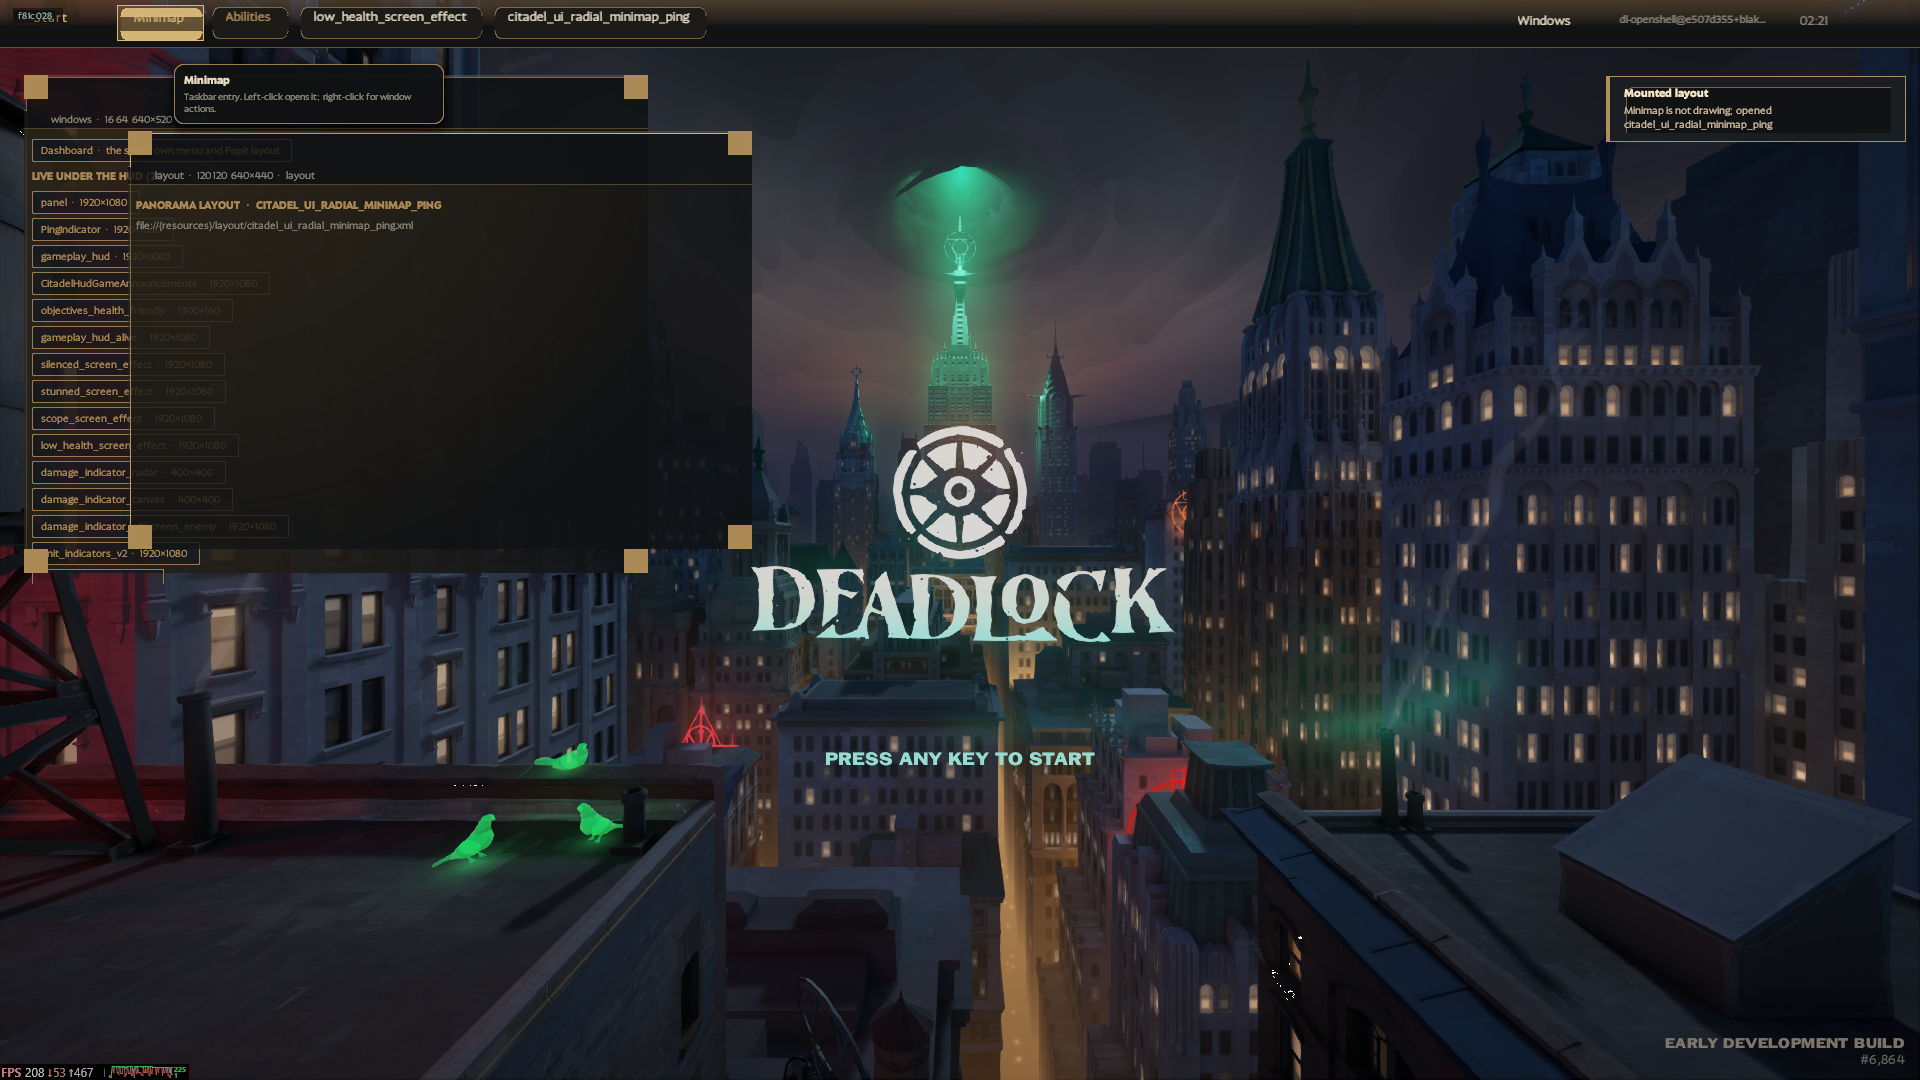
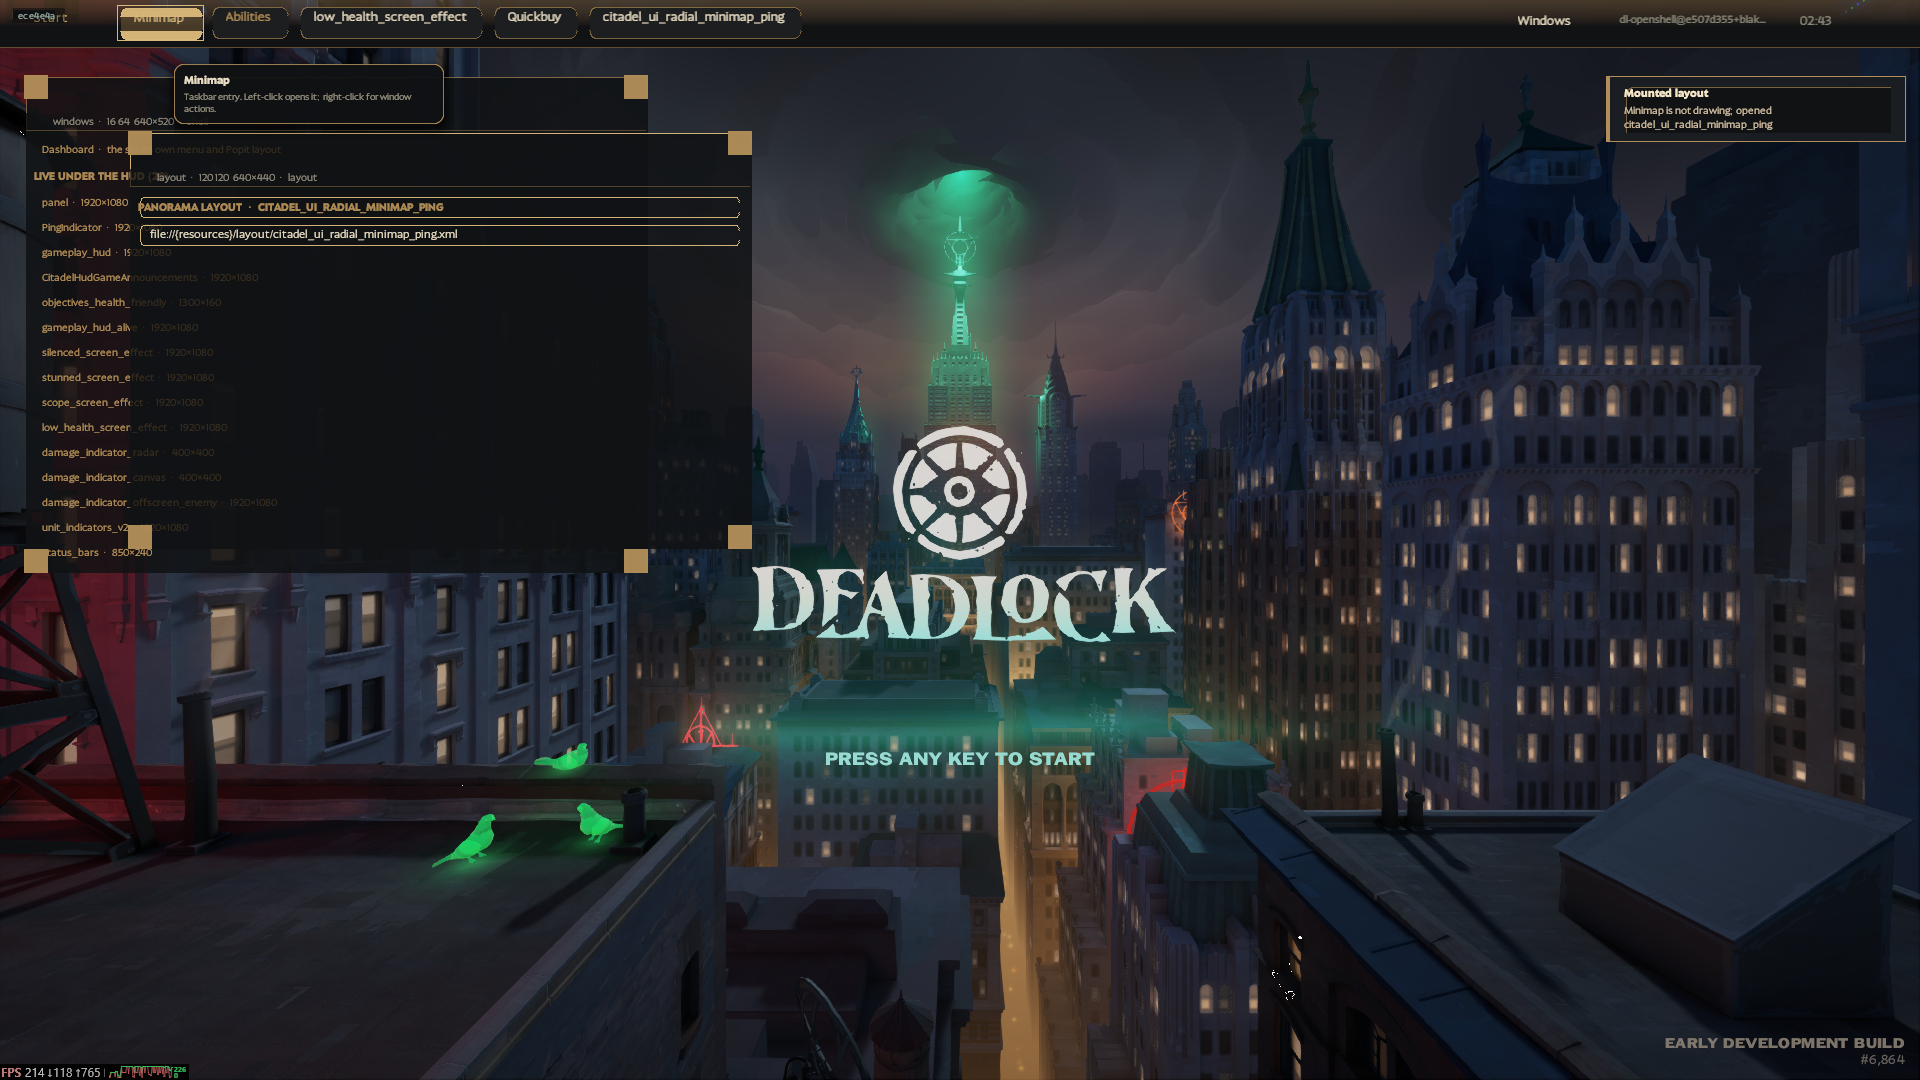
Re-pin the contour after the padding, fill and row work, with the open crown recorded
The pin is schema 2: new captures, image and authority digests, the installed archive's sha and the
rows' own log lines. Two deltas are recorded closed (hover/active fills, contoured rows) and the
window crown after a drag is recorded open with the reason, rather than smoothed.

🤖 Generated with Codebuff

diff --git a/tickets/TICKET-0036-openshell-popit-pinned-baseline.md b/tickets/TICKET-0036-openshell-popit-pinned-baseline.md
@@ -389,3 +389,44 @@ host's padding removed it measures 93 again, as the reference's 92.8 lays out.
 
 **Gates, all exit 0:** contour 10/0 · options 9/0 · options selftest 7/0 · archive on the installed
 VPK 9/0 · landing `--check` ok · chrome 99 · contour-test 63/0 · boot-carrier 12/0.
+
+## 2026-11-22 (eighth pass) — clip padding, interaction fills and rows: two of the three closed
+
+The pin's three deltas were worked in order, against the pinned reference in `pins/` and the shape
+authority in `docs/`.
+
+**One shared padding implementation.** `openlock_contour.js` now derives every surface from
+`OpenlockContour.pads()`, which reads `clip_pad` 0.5, `frame_pad` 1.5 and `stroke_width` 1 straight from
+`docs/family-look.json`. The profile is cut at the frame pad, the ink is one stroke wide, and the fill
+starts at `2 * stroke` inside the box. A cell, a row and a window crown all come through that one call;
+none carries its own numbers. The test proves it (`pads()` equals the pin's constants, and the fill's
+first row starts at the stroke), and the gate's `outline-not-clipped` now reads the padded call.
+
+**Delta 1, hover and activated cells — closed, measured.** The flood was a rectangle: `.Taskbar
+.ShellTab.Active { background-color: #b08d5729 }` painted a slab across the crown, and the fill colour
+was a brass that carried over it. Both are gone. The fills are the reference's two paints composited
+over the bar's ink — paper 6 per cent (#1c1d1e) and brass 16 per cent (#29251e) — and hover moves only
+the ink, as `bar.css` does. Measured: `contour 85x36 / 82x36 / 188x36 / 218x36 band=11 slices=48`, cells
+read paper-on-ink in all three states, no brass over a crown.
+
+**Delta 3, rows inside a window — closed for the surfaces, measured.** `actionRow` and `rowXd` build a
+`ViewRowBox` ground that takes the contour, with the Label inside keeping the text, the pointer and the
+handler (`check_shell_clicks` still reads a Label, `row.text` and the activation event), and
+`addControl` contours `ViewAction` surfaces. Measured: `contour 130x22 band=7 slices=28`,
+`99x22 band=7`, `96x22 band=7` — a 22 px row cuts a 7 px crown from the same profile, and the rows show
+the chamfer and the 1 px ink in the captures.
+
+**Delta 2, the window crown after a drag — not closed, and the attempt is shown.** The drag now ends by
+dropping the frame's size cache and drawing twice (`contourChip` immediately and again at 0.12 s), so
+the frame is re-cut at the box the drag ended on and the log shows the window's own line. What does not
+follow is the *visible* crown: the frame's plates (`WindowTitle`, `WindowMeta`, `WindowBody`) are
+rectangles, this client has no clip for a child, and a plate inset by 2 px still squares the corner the
+contour cut. The capture after the drag shows the contoured rows and the ink body with a square outer
+corner. Recorded as open in the pin (`states.resized`) rather than claimed.
+
+**Start stays at 93 px** (`bar metrics: start=93 tab0=85 gap=5.6`), the two non-reference cells are
+untouched, and `docs/family-look.json`'s surface list is unchanged.
+
+**Gates, all exit 0:** contour 11/0 (a new `contour-on-rows-and-crowns` check) · options 9/0 · options
[1 lines of base64/hex data omitted]
+landing `--check` ok · chrome 99 · contour-test 74/0 · boot-carrier 12/0.

diff --git a/STATUS.md b/STATUS.md
@@ -2,7 +2,7 @@
 
 Generated by `python tools/project.py gate`. Do not hand-edit.
 
-Updated: 2026-11-20T17:39:32+00:00
+Updated: 2026-11-22T09:45:55+00:00
 
 ## Gate
 
@@ -22,7 +22,13 @@ Updated: 2026-11-20T17:39:32+00:00
 - [x] addon boundary selftest
 - [ ] release skeleton identity — fail: seven_tail-pack.json carries no skeleton_identity record: it was packed without the game's own skeleton, so nobody checked that a game joint kept its slot
 - [ ] release installed pak — skip: no installed pak at D:\SteamLibrary\steamapps\common\Deadlock\game\citadel\addons\pak97_dir.vpk
-- [ ] probe lane — skip: disabled with --no-probes
+- [ ] probe: cloth — skip: missing extraction root (set --extractions or DMF_EXTRACTIONS)
+- [ ] probe: pages — skip: missing extraction root (set --extractions or DMF_EXTRACTIONS)
+- [ ] probe: tail-ui — skip: missing extraction root (set --extractions or DMF_EXTRACTIONS)
+- [ ] probe: tail auto — skip: missing extraction root (set --extractions or DMF_EXTRACTIONS)
+- [ ] receipt tail-live.json — fail: failed checks: skeleton-cache
+- [x] receipt probe-zip.json
+- [ ] probe lane — fail: 1 passed, 4 skipped, 1 failed
 
 ## Surface
 
@@ -42,7 +48,7 @@ Updated: 2026-11-20T17:39:32+00:00
 - Real mesh: real Haze body parts scanned under the new package; all seven source/export comparisons match; vmdl unchanged; compile skipped
 - Workbench probe: `pass`; proof current; stale bytes refused; export refused with axis-proof-refused; path settings registered
 - Old addon migration: `pass`; 6 old model files, 38 old material assets, 12 cloth chains, 0 hinges.
-- Installable zip: `pass`; 0.7.2 zip installs: 17 panels, 74 operators, 48 files, icons valid. zip_bytes=348920 sha256=d21196c20d30127cb99032e00c75de24287c6a5bef5665db6028964ff676e6d0 blake3=blake3:b803cf6f055fab1526df5ce615766fecad21f2937ccbc4ccd57de15bb1fef287
+- Installable zip: `pass`; published asset 71 files, 531329 bytes, sha256 467b453240741f109d087cf91c0b5a0b224743e524a53f136b0b36975a7b26e7; 114 operators, 26 panels, 49 icons, version 0.22.9
 
 ## Boundaries
 

diff --git a/AGENTS-INDEX.md b/AGENTS-INDEX.md
@@ -3,7 +3,7 @@
 Generated by `python tools/agents_audit.py --index`. Do not hand-edit: the audit rewrites it.
 
 Read this first. It is every section of `AGENTS.md` with its date, its line and the flags the
-audit read from it, so a rule does not have to be found by reading 2,900 lines in order.
+audit read from it, so a rule does not have to be found by reading 514 lines in order.
 
 | line | date | section | flags |
 |---:|---|---|---|
